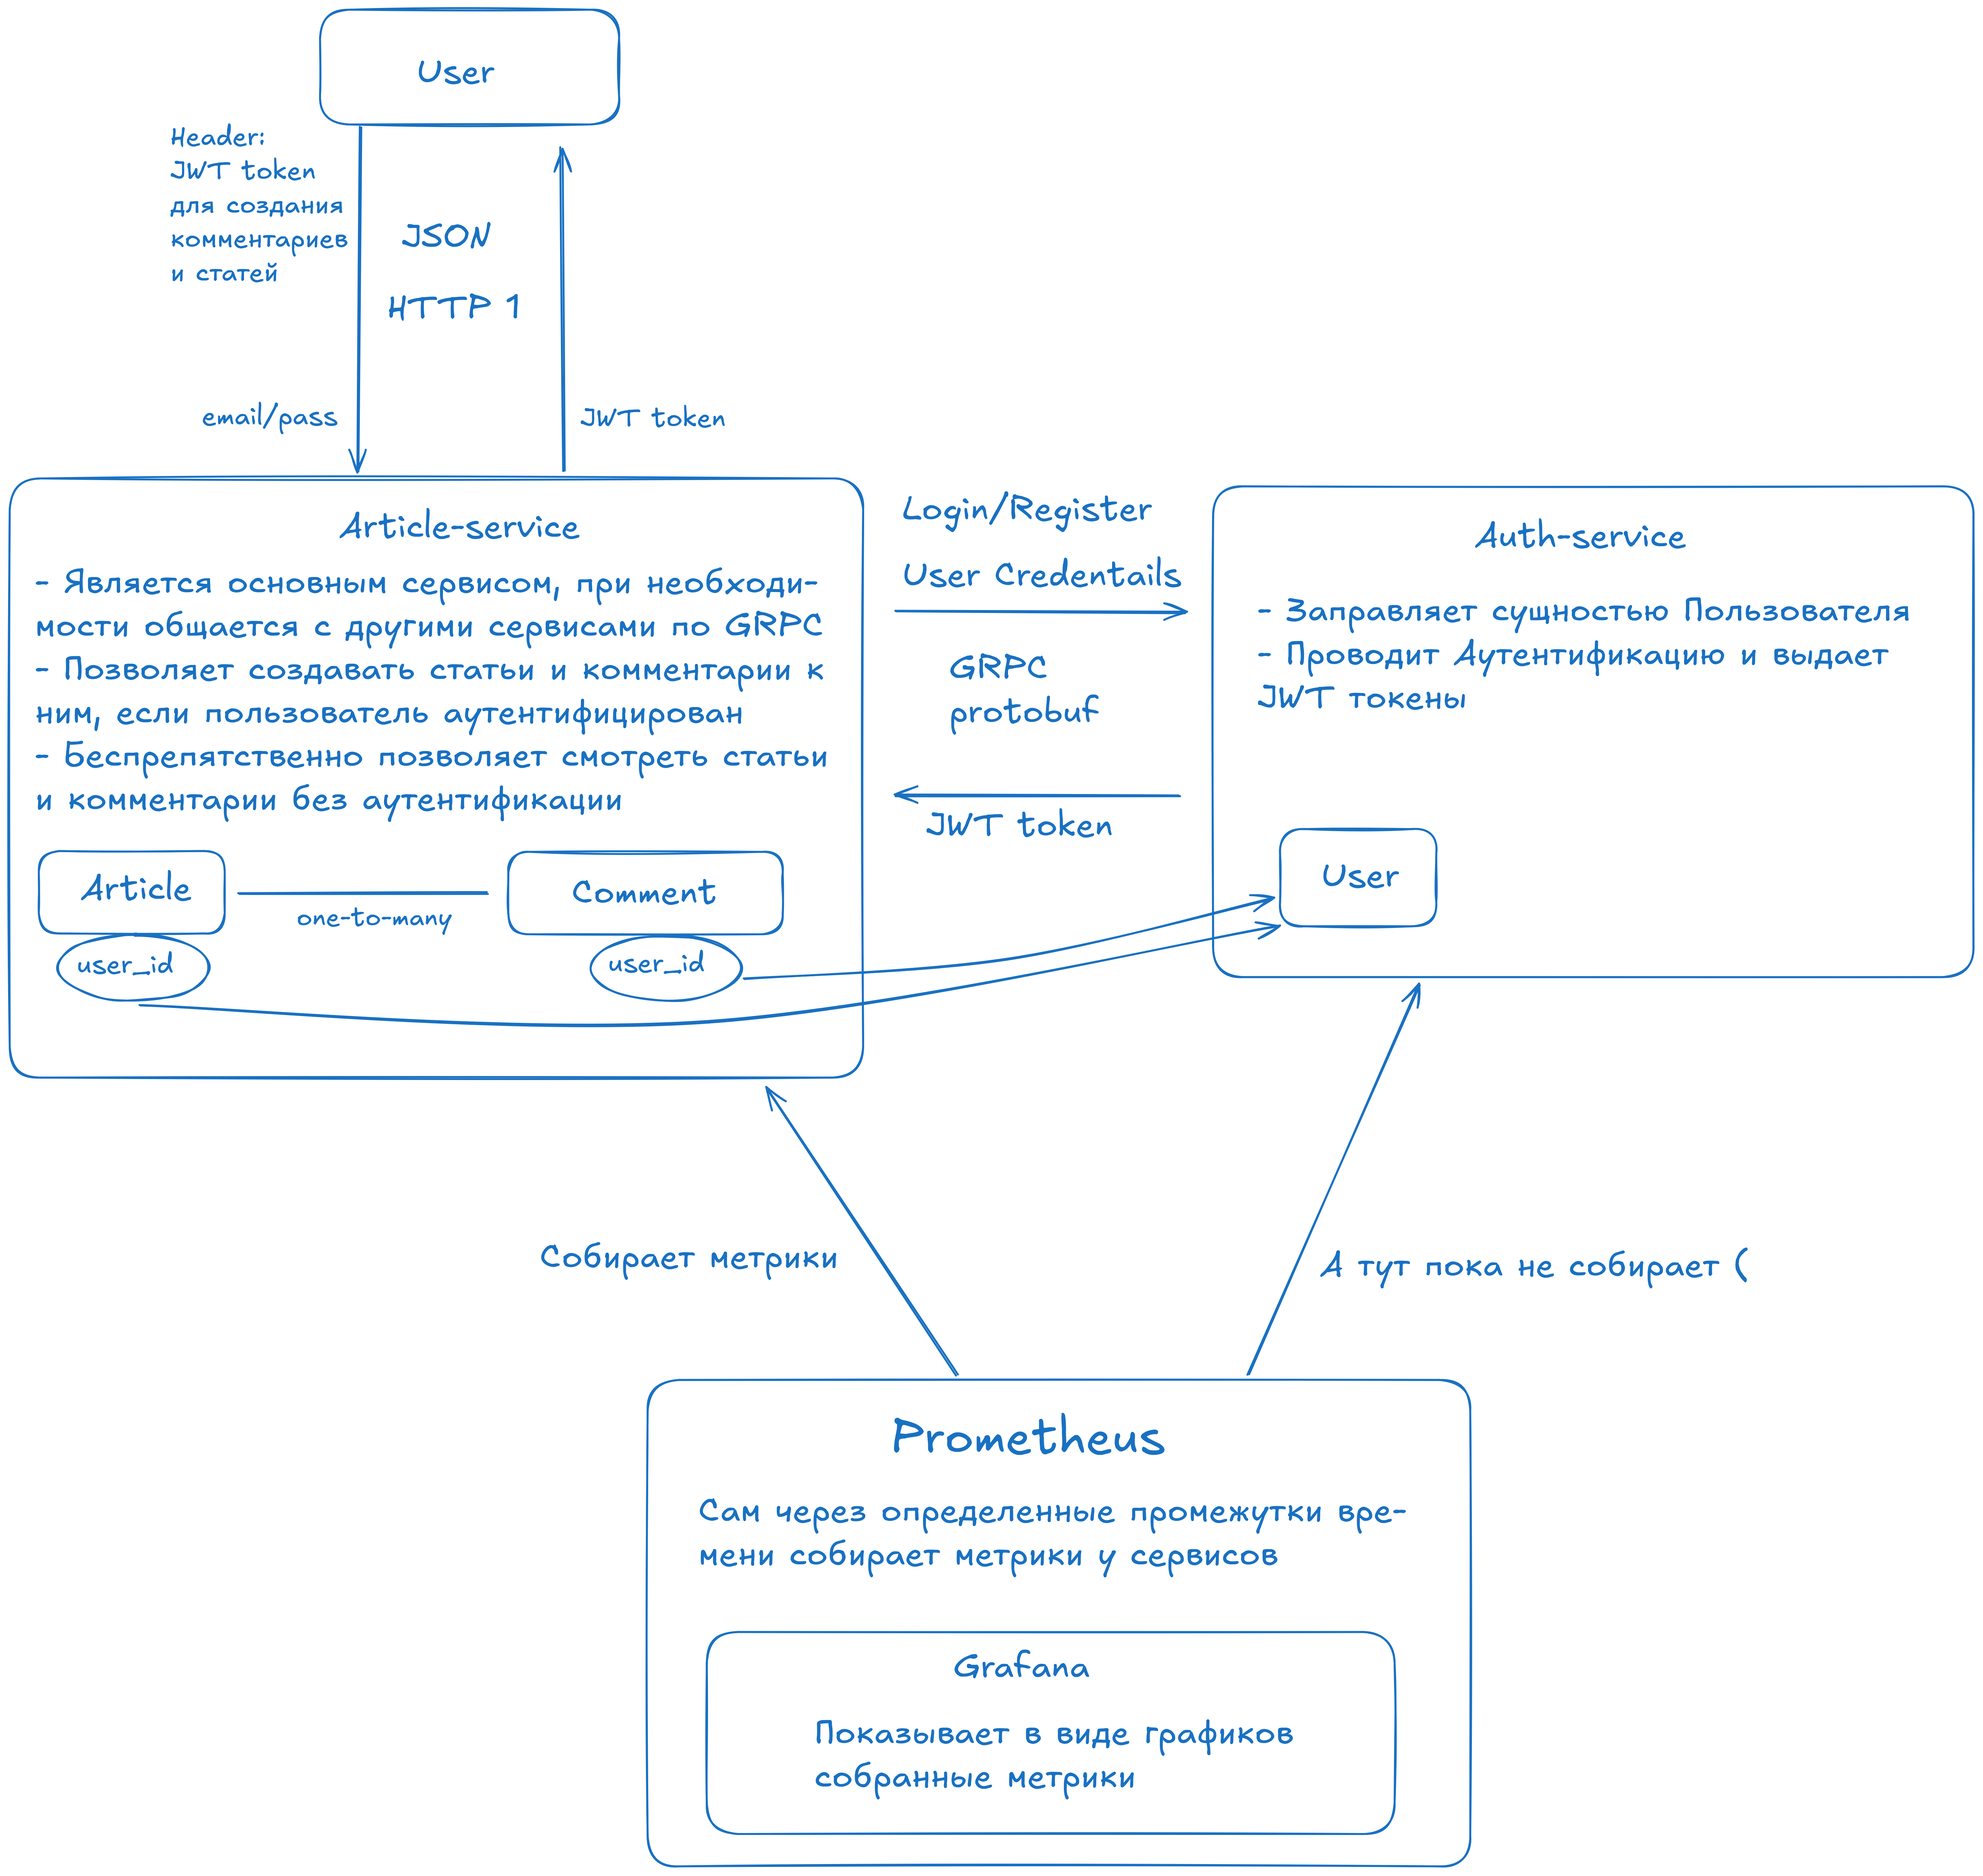
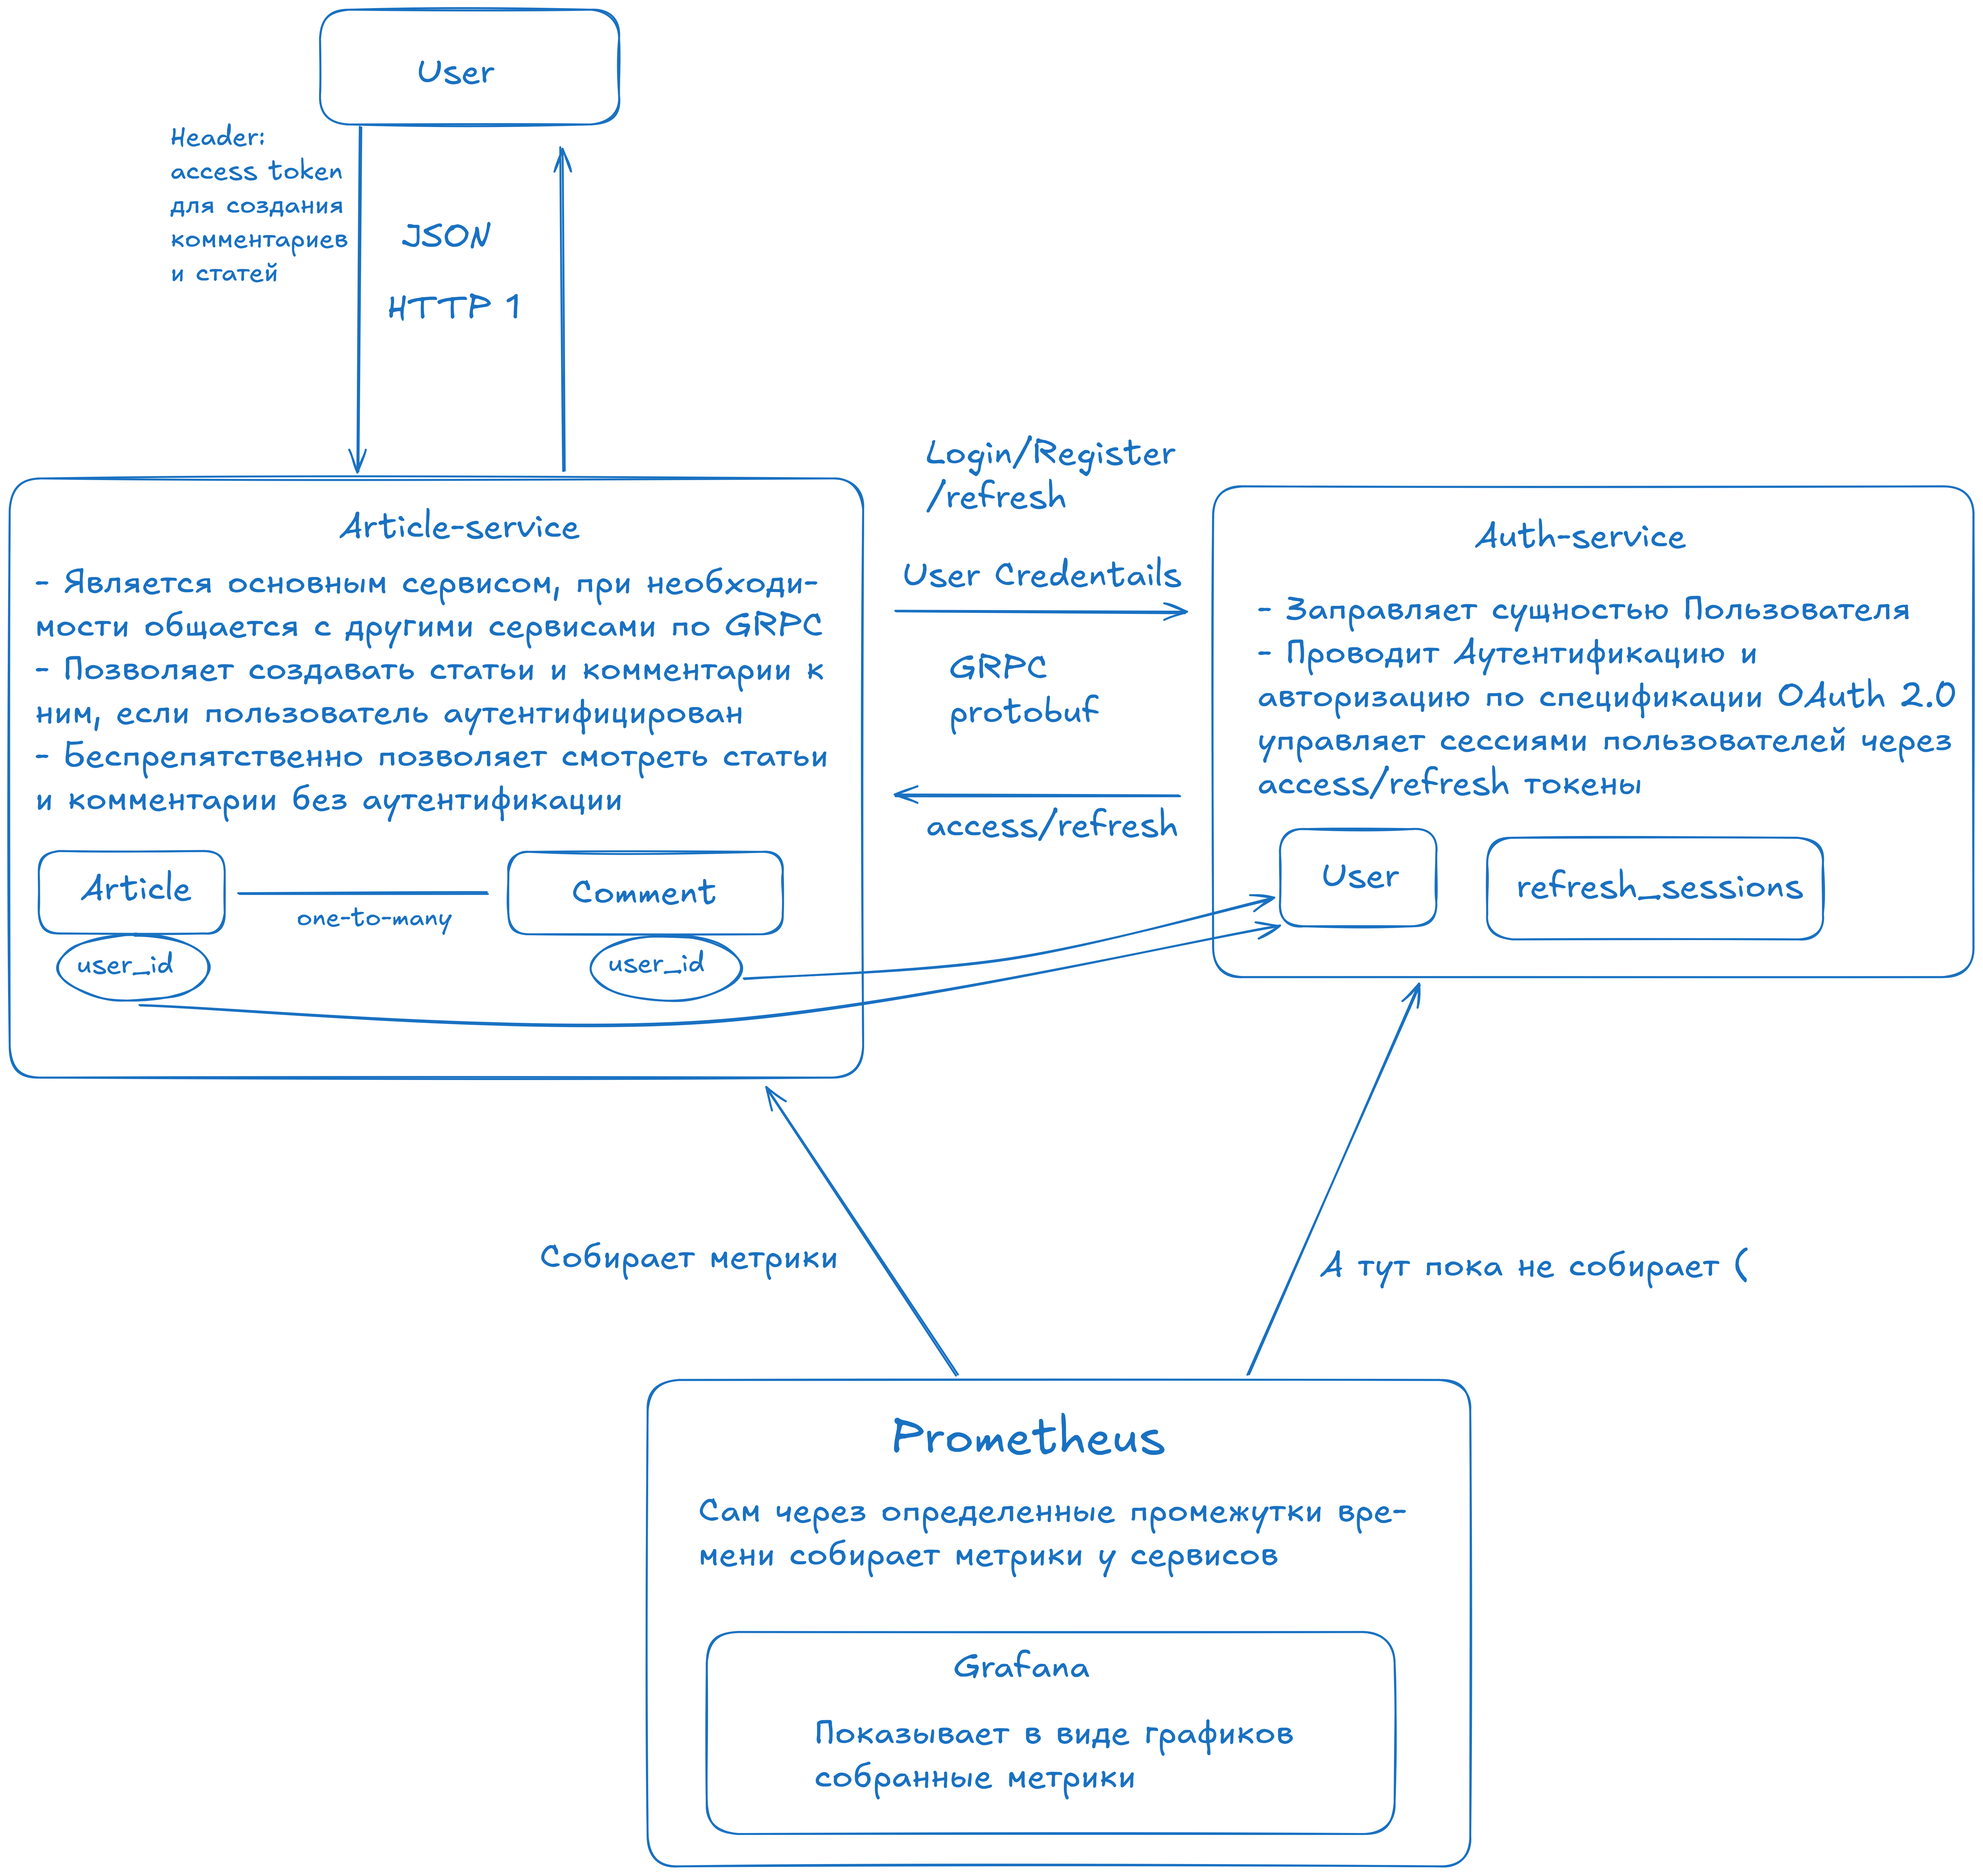
chore: update readme.md

diff --git a/readme.md b/readme.md
@@ -20,8 +20,8 @@
 
 ## Сервис аутентификации
 
-Этот микросервис предназначен для проведения аутентификации пользователей, и соответственно оперирует этой сущностью.  
-Выдает JWT токены, в которых записана информация о пользователе и позволяет другим сервисам с помощью данного токена его аутентифицировать. [auth-service](auth-service)
+Этот микросервис предназначен для проведения аутентификации и авторизации пользователей, и соответственно оперирует этой сущностью.  
+Авторизация в сервисе релизована по спецификации OAuth 2.0, имеются access/refresh токены, реализованы refresh сессии (может быть только одна сессия на пользователя, на каждое устройство). [auth-service](auth-service)
 
 ## Метрики
 
